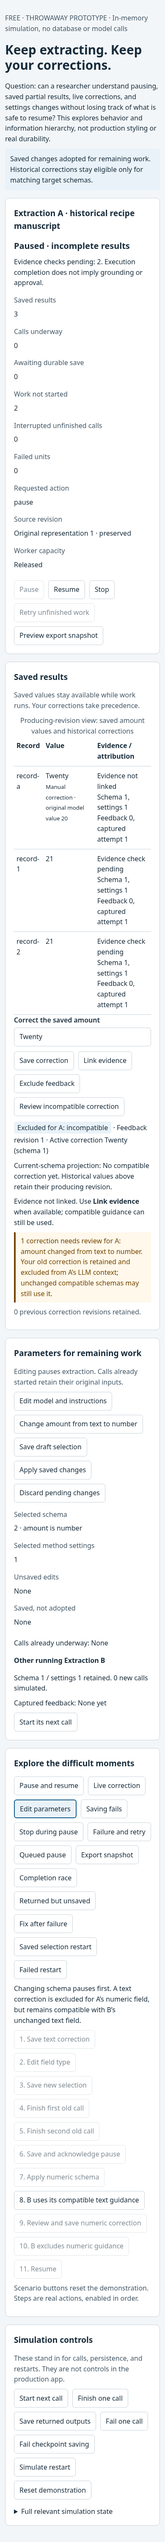
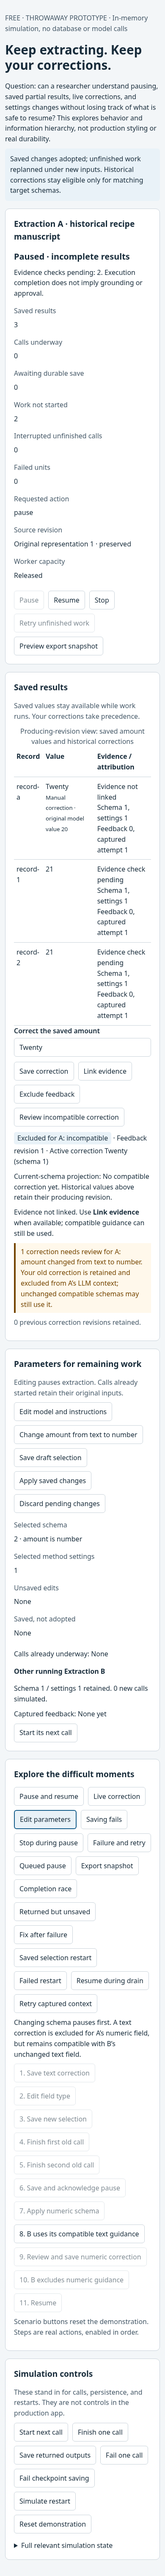
prototype(studio): preserve pending controls and captured retry context

diff --git a/prototypes/studio/src/prototypes/extraction-workbench.prototype.html b/prototypes/studio/src/prototypes/extraction-workbench.prototype.html
@@ -23,7 +23,7 @@
 // Pure portable reducer. No DOM or persistence dependency. The shell below is throwaway.
 const clone = value => structuredClone(value);
 function initial() {
-  const s = {phase:'Running',intent:'run',attempt:1,pending:2,calls:[{id:1,schema:1,settings:1,feedback:0,attempt:1},{id:2,schema:1,settings:1,feedback:0,attempt:1}],suspendedCalls:[],finished:[],results:[{id:'record-a',field:'amount',model:'20',schema:1,settings:1,feedback:0,attempt:1,grounding:'Grounded'}],correction:null,correctionHistory:[],feedbackVersion:0,schema:1,settings:1,fieldType:'text',draft:null,savedDraft:null,saveBlocked:false,failed:[],otherCalls:[],exportSnapshot:null,message:'Two calls are underway. One result is already saved.',nextCall:3};
+  const s = {phase:'Running',intent:'run',pendingResume:false,attempt:1,pending:2,calls:[{id:1,schema:1,settings:1,feedback:0,attempt:1},{id:2,schema:1,settings:1,feedback:0,attempt:1}],suspendedCalls:[],finished:[],results:[{id:'record-a',field:'amount',model:'20',schema:1,settings:1,feedback:0,attempt:1,grounding:'Grounded'}],correction:null,correctionHistory:[],feedbackVersion:0,schema:1,settings:1,fieldType:'text',draft:null,savedDraft:null,saveBlocked:false,failed:[],otherCalls:[],exportSnapshot:null,message:'Two calls are underway. One result is already saved.',nextCall:3};
   s.durable = durableView(s); return s;
 }
 function durableView(s) {
@@ -34,24 +34,25 @@ function eligible(s,targetType=s.fieldType){return !!s.correction && !s.correcti
 function requestPause(s) { if(['Running','Queued'].includes(s.phase)){s.intent='pause';s.phase=s.calls.length||s.finished.length||s.saveBlocked?'Pausing':'Paused';} }
 function settle(s){
   if(s.calls.length || s.finished.length || s.saveBlocked)return;
-  if(s.intent==='stop'){s.phase='Stopped';return;}
-  if(s.failed.length){s.phase='Failed';s.intent='run';return;}
-  if(!s.pending&&!s.suspendedCalls.length){s.phase='Completed';return;}
+  if(s.intent==='stop'){s.phase='Stopped';s.pendingResume=false;return;}
+  if(s.failed.length){s.phase='Failed';s.intent='run';s.pendingResume=false;return;}
+  if(!s.pending&&!s.suspendedCalls.length){s.phase='Completed';s.pendingResume=false;return;}
   s.phase=s.intent==='pause'?'Paused':'Running';
+  if(s.phase==='Paused'&&s.pendingResume){s.pendingResume=false;s.intent='run';s.phase='Running';s.attempt++;}
 }
 function reduce(input,action){
   const s=clone(input);s.message='';
   const terminal=['Stopped','Completed'].includes(s.phase);
   switch(action.type){
     case 'pause': if(['Running','Queued'].includes(s.phase)){requestPause(s);s.message='Pause requested. Calls already started may finish; Paused follows durable saving.';}else s.message='Pause is already requested or unavailable in this state.';break;
-    case 'resume': if(s.draft||s.savedDraft){s.message='Apply or discard pending changes before Resume.';}else if(s.phase==='Paused'||s.phase==='Pausing'){s.intent='run';if(s.phase==='Paused'){s.phase='Running';s.attempt++;}s.message='Resume accepted; any draining work is saved before continuing.';}else s.message='Resume is unavailable in this state.';break;
-    case 'stop': if(!terminal){s.intent='stop';s.phase=s.calls.length||s.finished.length||s.saveBlocked?'Stopping':'Stopped';s.message='Stop accepted. Saved results remain; this Extraction cannot resume after Stop.';}break;
+    case 'resume': if(s.draft||s.savedDraft){s.message='Apply or discard pending changes before Resume.';}else if(s.phase==='Pausing'){s.pendingResume=true;s.message='Resume recorded as pending. No new call starts until the drain/save boundary is acknowledged.';}else if(s.phase==='Paused'){s.intent='run';s.phase='Running';s.attempt++;s.message='Resume accepted at the saved boundary.';}else s.message='Resume is unavailable in this state.';break;
+    case 'stop': if(!terminal){s.intent='stop';s.pendingResume=false;s.phase=s.calls.length||s.finished.length||s.saveBlocked?'Stopping':'Stopped';s.message='Stop accepted. Saved results remain; this Extraction cannot resume after Stop.';}break;
     case 'start': if(s.phase==='Running'&&s.intent==='run'&&(s.pending||s.suspendedCalls.length)&&!s.saveBlocked){if(s.suspendedCalls.length){s.calls.push(s.suspendedCalls.shift());s.message='An unfinished captured call resumes with its original inputs.';}else{s.pending--;s.calls.push({id:s.nextCall++,schema:s.schema,settings:s.settings,feedback:eligible(s)?s.feedbackVersion:0,attempt:s.attempt});s.message='A new call captured the current saved parameters and eligible feedback.';}}else s.message='No new work can start at this boundary.';break;
     case 'finish': if(s.calls.length){const call=s.calls.shift();s.finished.push({...call,value:'21'});s.message='A call returned. Its output is not yet durably saved; Pause is not acknowledged.';}else s.message='No call is in flight.';break;
     case 'failCall': if(s.calls.length){const call=s.calls.shift();s.failed.push(call);s.phase=s.intent==='stop'?'Stopping':'Failing';settle(s);s.message='One call failed. Remaining in-flight calls can finish; no new work starts.';}break;
     case 'saveFail': s.saveBlocked=true;s.message='Saving failed. Outputs remain pending; no Paused acknowledgement or new work.';break;
     case 'save': s.saveBlocked=false;for(const item of s.finished)s.results.push({id:'record-'+item.id,field:'amount',model:item.value,schema:item.schema,settings:item.settings,feedback:item.feedback,attempt:item.attempt,grounding:'Evidence check pending'});s.finished=[];settle(s);s.message='Completed outputs saved. Lifecycle now reflects this durable boundary.';break;
-    case 'retry': if(s.draft||s.savedDraft){s.message='Apply or discard pending changes before Retry.';}else if(s.phase==='Failed'){s.pending+=s.failed.length;s.failed=[];s.intent='run';s.phase='Running';s.attempt++;s.message='Retry schedules only failed/unfinished work; saved results and corrections remain.';}break;
+    case 'retry': if(s.draft||s.savedDraft){s.message='Apply or discard pending changes before Retry.';}else if(s.phase==='Failed'){s.suspendedCalls.push(...s.failed);s.failed=[];s.intent='run';s.phase='Running';s.attempt++;s.message='Retry reuses failed/unfinished captured inputs; saved results and corrections remain.';}break;
     case 'correct': if(s.results.length){if(s.correction)s.correctionHistory.push(clone(s.correction));s.correction={value:action.value||'Twenty',schema:s.results[0].schema,type:'text',excluded:false,evidence:false};s.feedbackVersion++;s.message='Correction saved without pausing. Compatible ungrounded feedback is eligible for subsequent calls.';}break;
     case 'evidence': if(s.correction){s.correctionHistory.push(clone(s.correction));s.correction.evidence=true;s.feedbackVersion++;s.message='Evidence linked from the correction’s own source revision. Guidance was already eligible if compatible.';}break;
     case 'exclude': if(s.correction){s.correctionHistory.push(clone(s.correction));s.correction.excluded=!s.correction.excluded;s.feedbackVersion++;s.message=s.correction.excluded?'Feedback excluded; your saved correction remains.':'Feedback included for compatible targets.';}break;
@@ -59,10 +60,10 @@ function reduce(input,action){
     case 'editSettings': if(!terminal){requestPause(s);s.draft={...(s.draft||{}),settings:2};s.message='Model/instruction draft prepared. In-flight calls keep their old selection; Apply waits for Paused.';}break;
     case 'editSchema': if(!terminal){requestPause(s);s.draft={...(s.draft||{}),schema:2};s.message='Numeric-field schema draft prepared. Earlier values keep their producing schema.';}break;
     case 'saveSelection': if(s.draft){s.savedDraft=clone(s.draft);s.draft=null;s.message='Validated draft selection durably saved; not yet adopted.';}else s.message='No unsaved draft selection.';break;
-    case 'apply': if(['Paused','Failed'].includes(s.phase)&&!s.calls.length&&!s.finished.length&&s.savedDraft){if(s.savedDraft.schema){s.schema=s.savedDraft.schema;s.fieldType='number';}if(s.savedDraft.settings)s.settings=s.savedDraft.settings;s.savedDraft=null;if(s.suspendedCalls.length){s.pending+=s.suspendedCalls.length;s.suspendedCalls=[];}s.message='Saved changes adopted for remaining work. Historical corrections stay eligible only for matching target schemas.';}else s.message='Apply requires a durable idle boundary and a saved, valid selection.';break;
+    case 'apply': if(['Paused','Failed'].includes(s.phase)&&!s.calls.length&&!s.finished.length&&s.savedDraft){if(s.savedDraft.schema){s.schema=s.savedDraft.schema;s.fieldType='number';}if(s.savedDraft.settings)s.settings=s.savedDraft.settings;s.savedDraft=null;s.pending+=s.suspendedCalls.length+s.failed.length;s.suspendedCalls=[];s.failed=[];s.message='Saved changes adopted; unfinished work replanned under new inputs. Historical corrections stay eligible only for matching target schemas.';}else s.message='Apply requires a durable idle boundary and a saved, valid selection.';break;
     case 'discard': s.draft=null;s.savedDraft=null;s.message='Pending changes discarded. The persisted selection remains; Resume is available at the saved boundary.';break;
     case 'otherStart': s.otherCalls.push({schema:1,settings:1,feedback:eligible(s,'text')?s.feedbackVersion:0});s.message='Extraction B kept its text-field schema/settings and captured only compatible project feedback for its new call.';break;
-    case 'restart': {const recovered=clone(s.durable);if(recovered.intent!=='run'||recovered.failed.length){recovered.suspendedCalls.push(...recovered.calls);recovered.calls=[];recovered.phase=recovered.intent==='stop'?'Stopped':recovered.failed.length?'Failed':'Paused';if(recovered.phase==='Failed')recovered.intent='run';}recovered.durable=durableView(recovered);recovered.message='Restart restored saved state and control intent. Unsaved outputs/typing were lost; saved selections remain. Paused, failed, or stopped work does not restart calls.';return recovered;}
+    case 'restart': {const recovered=clone(s.durable);if(recovered.intent!=='run'||recovered.failed.length){recovered.suspendedCalls.push(...recovered.calls);recovered.calls=[];recovered.phase=recovered.intent==='stop'?'Stopped':recovered.failed.length?'Failed':'Paused';if(recovered.phase==='Failed')recovered.intent='run';if(recovered.phase==='Paused'&&recovered.pendingResume)settle(recovered);}recovered.durable=durableView(recovered);recovered.message='Restart restored saved state and control intent. Unsaved outputs/typing were lost; saved selections remain. Paused/failed/stopped calls stay suspended unless an accepted pending Resume takes effect at the saved boundary.';return recovered;}
     case 'export': s.exportSnapshot={state:s.phase,incomplete:s.phase!=='Completed',schema:s.schema,results:clone(s.results),correction:clone(s.correction),correctionHistory:clone(s.correctionHistory),feedbackVersion:s.feedbackVersion};s.message='Export captured this saved snapshot. Later calls/edits cannot change it.';break;
     case 'lastCalls': s.pending=0;s.message='Only the two already-started calls remain.';break;
     case 'queued': s.phase='Queued';s.calls=[];s.pending=4;s.message='Extraction is queued, with no model call started.';break;
@@ -85,7 +86,9 @@ const scenarios=[
  {name:'Returned but unsaved',description:'Even with no call left in flight, Pause cannot acknowledge before returned outputs are saved.',steps:[['finish','Finish first call'],['finish','Finish second call'],['pause','Pause before saving'],['save','Save returned outputs']]},
  {name:'Fix after failure',description:'At a durable Failed boundary, saved settings can be adopted before Retry.',steps:[['failCall','Fail one call'],['finish','Finish concurrent work'],['save','Save successful work'],['editSettings','Edit settings'],['saveSelection','Save selection'],['apply','Apply at failed boundary'],['retry','Retry with selected inputs'],['start','Start unfinished work']]},
  {name:'Saved selection restart',description:'Saved parameter drafts survive restart; unsaved typing does not. Adoption still waits for a safe boundary.',steps:[['editSettings','Edit settings'],['saveSelection','Save selection'],['restart','Restart to paused boundary'],['apply','Apply saved selection'],['resume','Resume']]},
- {name:'Failed restart',description:'A failure during pause remains Failed after restart, with saved concurrent work and Retry available.',steps:[['pause','Pause'],['failCall','Fail one call'],['finish','Finish concurrent call'],['save','Save concurrent output'],['restart','Restart'],['retry','Retry unfinished work']]}
+ {name:'Failed restart',description:'A failure during pause remains Failed after restart, with saved concurrent work and Retry available.',steps:[['pause','Pause'],['failCall','Fail one call'],['finish','Finish concurrent call'],['save','Save concurrent output'],['restart','Restart'],['retry','Retry unfinished work']]},
+ {name:'Resume during drain',description:'Resume is saved as pending during pause; it does not reopen call admission before all returned output saves.',steps:[['pause','Pause'],['resume','Request Resume during drain'],['start','Attempt new call before boundary'],['finish','Finish first call'],['finish','Finish second call'],['save','Save and admit linked continuation'],['start','Start remaining work']]},
+ {name:'Retry captured context',description:'A correction saved after a call failed affects genuinely new work. Retrying that already-started call preserves its original captured context.',steps:[['failCall','Fail call with original context'],['finish','Finish concurrent call'],['save','Save concurrent output'],['correct','Save new guidance'],['retry','Retry captured call'],['start','Reuse original context']]}
 ];
 let state=initial(),selected=0,step=0;
 const el=id=>document.getElementById(id);

diff --git a/prototypes/studio/src/prototypes/extraction-workbench.prototype-notes.md b/prototypes/studio/src/prototypes/extraction-workbench.prototype-notes.md
@@ -2,7 +2,7 @@
 
 Date: 2026-10-04. Status: throwaway planning artifact, not production implementation. Baseline `a1ae85b7`. Origin: [Prototype pause, live correction, and parameter-edit interactions](https://github.com/HUM-CDCH/FREE/issues/175).
 
-Open `extraction-workbench.prototype.html` directly in a browser; no install/server/database. The file contains a pure in-memory reducer plus free-play controls and 13 guided scenarios. It answers whether pause/drain, live corrections, saved selections, and partial exports can remain understandable in one workbench. Styling is restrained illustration, not a production design replacement.
+Open `extraction-workbench.prototype.html` directly in a browser; no install/server/database. The file contains a pure in-memory reducer plus free-play controls and 15 guided scenarios. It answers whether pause/drain, live corrections, saved selections, and partial exports can remain understandable in one workbench. Styling is restrained illustration, not a production design replacement.
 
 Verdict: retain one lifecycle/control banner with saved/in-flight/pending state, an always-visible saved-result view, adjacent parameter controls, and simple evidence/compatibility warnings. Keep results and exports accessible during every state. Distinguish a saved selection from one adopted at an idle boundary. Historical producing-revision values and current-schema corrections are visibly separate. Existing calls retain context; subsequent calls in another Extraction use compatible feedback while keeping their selected schema/settings.
 
@@ -29,6 +29,8 @@ Browser interaction checks used local Playwright/Chromium with normal button and
 | Fix after failure | Save/adopt selection at idle Failed boundary; Retry uses revised inputs. |
 | Saved selection restart | Saved selection survives restart while local unsaved typing does not; adoption still requires idle boundary. |
 | Failed restart | Failure during pause remains Failed after restart; Retry remains available. |
+| Resume during drain | Resume remains a pending request; new call admission refused until all outputs save, then linked continuation starts. |
+| Retry captured context | Retry of a call started before a new correction reuses its original feedback revision; fresh work uses new guidance. |
 
 No browser JavaScript errors observed. Desktop inspected at 1200×900; mobile at 390×844 had document width 390, with no horizontal overflow. Keyboard focus remained on the next walkthrough step or selected scenario after re-render; Tab focused the next scenario with a visible outline. Screenshot assets show the incompatible-field state at desktop and mobile widths. These checks verify this interaction model, not PostgreSQL durability, production accessibility, actual model grounding, DBOS recovery, or export file generation.
 
